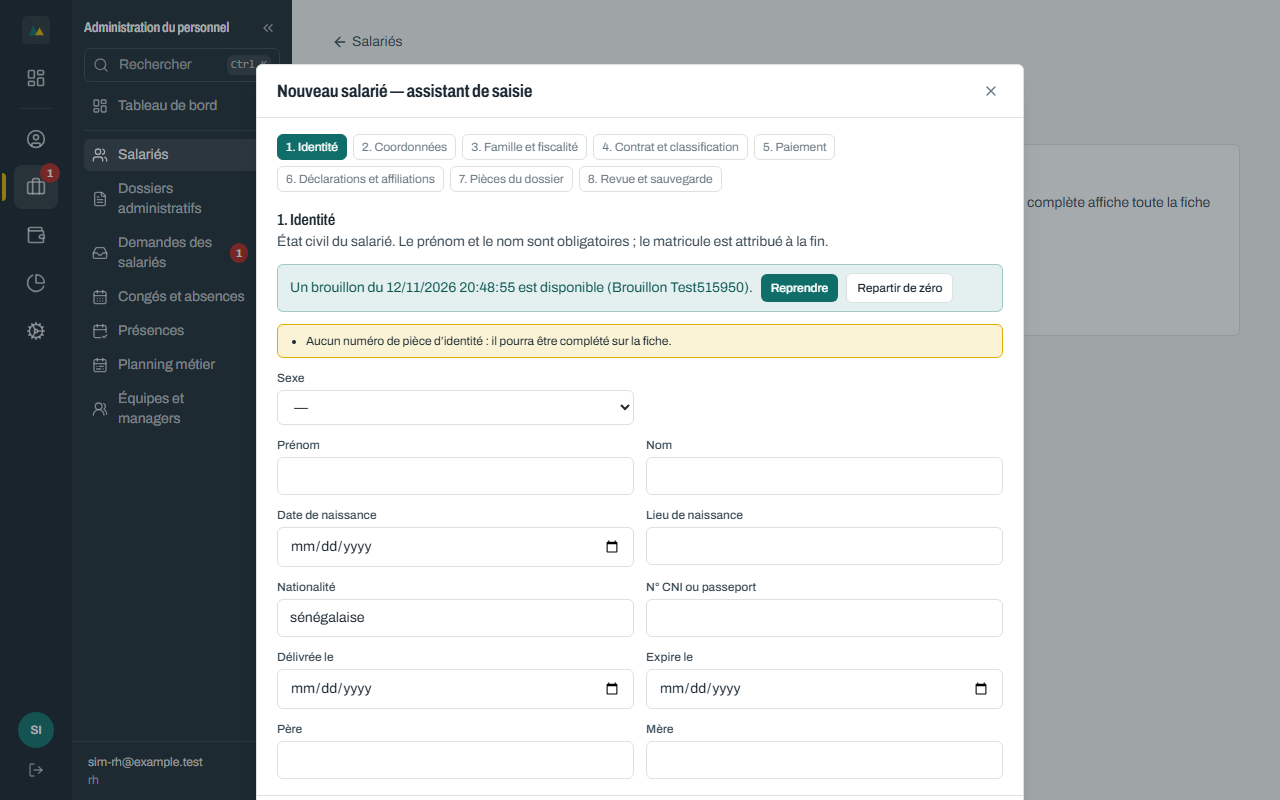
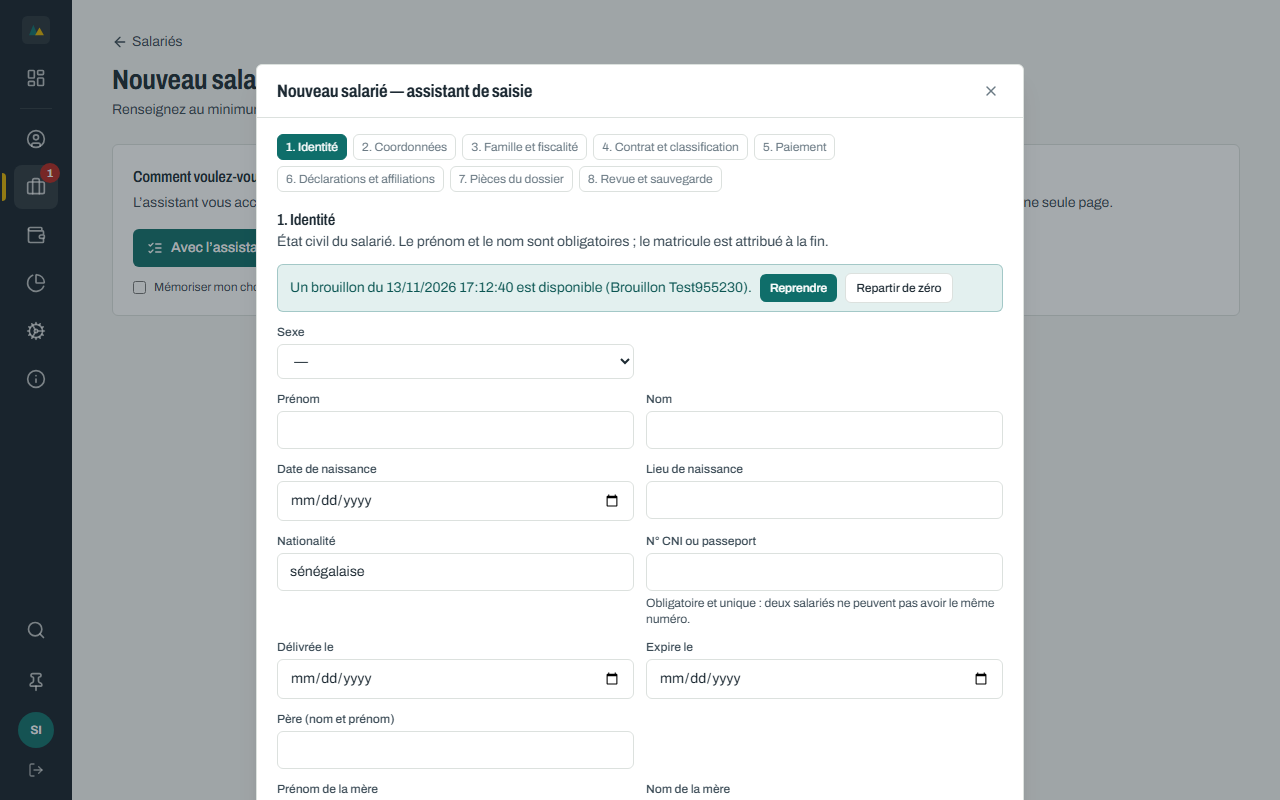
docs: guide (assistant de saisie, saisies en cours, menu et À propos), index des cas d'usage, journal des paliers

diff --git a/docs/recette/simulation-200/JOURNAL_PALIERS.md b/docs/recette/simulation-200/JOURNAL_PALIERS.md
@@ -278,3 +278,21 @@ Non joué : heures supplémentaires et vacations, planning (saisie), absences ex
 
 Aucun ROUGE, aucune régression par rapport au palier 10. Intermittence ORANGE : section « Structure salariale » parfois absente (RPR-16). Défaut corrigé avec accord du propriétaire : images du guide en 403 sur le serveur de développement (RPR-17).
 Contrôles : unitaires 54/54, `npm run check` 0 erreur, build OK, menu 12/12, accessibilité 10/10, onglet Documentation 2/2. SQL : 63 tests, 14 échecs dont la majorité de données de scénario absentes (la dernière campagne en comptait 12 sur l'ancienne base) : à rejouer sur un scénario QA. `verify-payroll.ps1` : écart attendu (référence de 26 bulletins, base à 175/200), référence non réenregistrée.
+
+### Saisie des salariés, menu, À propos (13/11/2026) — branche `feat/saisie-salarie-menu-apropos`
+Migration `20261217090000_saisie_salarie_cni_noms_brouillons.sql` (+ retour arrière, tests `saisie_salarie` et `moteur_reference_2026`), assistant et fiche salarié, menu latéral, rubrique « À propos », documentation.
+
+| Réf | Demande | Réalisation | Statut |
+|---|---|---|---|
+| SAI-01 | N° CNI ou passeport obligatoire et unique | Assistant : obligatoire (écran et fonction `create_employee_from_wizard`), doublon refusé avec le matricule concerné ; index unique partout (espaces et casse ignorés) ; saisie complète : obligatoire à la création ; fiches anciennes sans numéro : alerte rouge non bloquante (les 210 salariés de simulation n'en ont aucun, l'imposer à toute modification les bloquerait). Décision à confirmer. | VERT / ORANGE |
+| SAI-02 | Majuscule à la première lettre du prénom et du nom, le reste en minuscule | Fonction `person_name` + déclencheur (création et modification du champ), aperçu à la sortie du champ ; appliqué aussi au nom de jeune fille, à la mère et au père. Une modification d'un autre champ ne retouche pas les anciens noms. | VERT |
+| SAI-03 | Nom de jeune fille pour les femmes ; nom et prénom de la mère | Colonnes `maiden_name`, `mother_first_name`, `mother_last_name` ; le nom complet historique `mother_name` est composé à l'enregistrement. | VERT |
+| SAI-04 | TRIMF et IR : calcul automatique, mémo des formules, saisie manuelle avec alerte rouge | Interprétés comme les **parts** TRIMF et IR (règle jusque-là « à fournir » dans le code) : règle du document de référence 2026, calcul automatique tant que non modifiées, mémo visible sous les champs, alerte rouge et bouton « Appliquer le calcul automatique » si écart ; mêmes règles sur la fiche. **Règle à confirmer auprès du texte de loi** (ambiguïté du document : « marié(e) = 1,5 » puis « conjoint sans revenu = +0,5 » interprété comme 2 parts avec un conjoint à charge). | VERT / ORANGE |
+| SAI-05 | Accord du moteur avec le document de référence | Test SQL `moteur_reference_2026` : les 3 cas de validation du PDF (IR 59 500 / 272 438 / 282 361, TRIMF 1 000 / 6 000 / 6 000) concordent exactement avec `compute_income_tax` et `compute_trimf`. Aucun code du PDF n'a été repris (le moteur existant suffit). | VERT |
+| SAI-06 | Mettre la saisie en attente et la reprendre | Table `employee_drafts` (RLS : l'auteur, et l'administrateur), bouton « Mettre en attente », page « Saisies en cours » (avancement, points à déterminer, reprise au clic, suppression), compteur sur la page Salariés. | VERT |
+| MEN-01 | Menu déployé au survol ou au clic, refermé au clic ou à la sortie de la souris, bouton pour l'épingler | Par défaut non épinglé (rail d'icônes, volet au survol) ; épingle en bas du rail et dans le volet ; « Désépingler » dans le volet déployé ; Échap et clic extérieur ferment. | VERT |
+| MEN-02 | Menu « À propos » | Dernier espace : Aide et guide utilisateur (déplacée), À propos (version, build, support), Tarification et services, Conditions d'utilisation, Politique de confidentialité, Sauvegardes et versions. Contenus juridiques et commerciaux : **versions de travail à valider** ; aucun tarif ni coordonnée inventés (support configurable par variables d'environnement). | VERT / ORANGE |
+| MEN-03 | Numérotation des versions | Version 1.0.0 introduite avec cette livraison ; l'historique antérieur est listé par date, sans numéros rétroactifs. | VERT |
+
+Tests : unitaires 70/70 ; SQL (nouveaux et adaptés) OK ; menu et accessibilité (dont les nouvelles pages et le survol) ; guide 7/7 ; simulation : `33-saisie-salarie` 3/3, `60-assistant` 4/4, `61-assistant-lot2` 5/5 ; build et types OK.
+Constats : (1) les specs `41-embauches` et `52-divers` (héritées) créaient des salariés sans n° de pièce : adaptées ; (2) la base locale avait été refaite par ailleurs (salariés à partir de mai 2026) : `connexion_telephone`, `l5_batch` et `rpr09_prorata` échouent désormais pour des raisons de données (vérifié : mêmes échecs sans ma migration) ; (3) `localhost` ne répond plus vers Docker Desktop en IPv6 : le proxy de développement vise `127.0.0.1`.
